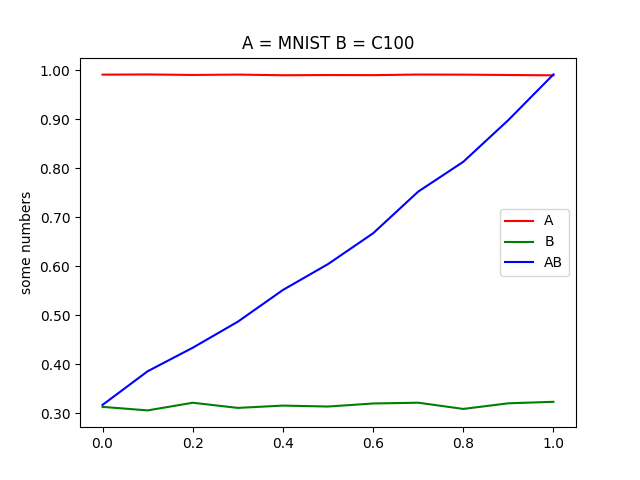
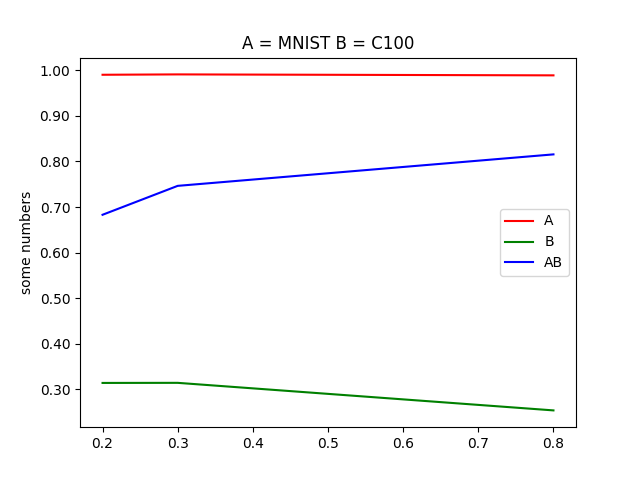
more data

diff --git a/dev/similarity/p-test/plot-p.py b/dev/similarity/p-test/plot-p.py
@@ -34,13 +34,13 @@ def load_data():
     res = []
     data = []
     names = []
-    with open('cart-results.csv', newline='') as csvfile:
+    with open('tmp_n-11.csv', newline='') as csvfile:
         spamreader = csv.reader(csvfile, delimiter=',', quotechar='|')
         for row in spamreader:
-            res.append([float(row[3]),float(row[4]),float(row[5]), float(row[2])])
+            res.append([float(row[3]),float(row[4]),float(row[5])])
 
             c = c + 1
-            if c >= 3:
+            if c >= 11:
                 c = 0
                 names.append(row[0:2])
                 data.append(res)
@@ -54,7 +54,7 @@ def plot_data(names, data):
         fig, ax = plt.subplots()
         ax.yaxis.set_major_formatter(FormatStrFormatter('%.2f'))
         # evenly sampled proportion
-        p = [0.2, 0.3, 0.8]
+        p = np.arrange(0.0, 1.1, 0.1)
         a = []
         b = []
         c = []
@@ -143,10 +143,17 @@ def calc_s_mean(data):
     for i in data:
         s_sum = 0.0
         for j in i:
-            try:
-                s_sum = s_sum + abs(abs(j[0] -j[2]) - abs(j[1] -j[2]))/abs(j[0] - j[1])
-            except:
+            a = max(j[0], j[1])
+            b = min(j[0], j[1])
+            ab = j[2] 
+
+            if ab > a or ab < b:
                 s_sum = s_sum + 1
+            else:
+                try:
+                    s_sum = s_sum + abs(abs(j[0] -j[2]) - abs(j[1] -j[2]))/abs(j[0] - j[1])
+                except:
+                    s_sum = s_sum + 1
         res.append(s_sum/len(i))
     
     return res
@@ -265,8 +272,8 @@ def calc_proj_auc(data):
 names, data = load_data()
 
 #print(names)
-print(data)
-plot_data(names,data)
+#print(data)
+#plot_data(names,data)
 
 #print(names)
 
@@ -274,7 +281,15 @@ plot_data(names,data)
 #print(a)
 
 b = calc_s_mean(data)
-print(b)
+
+
+c = 0
+for i in b:
+    print(round(i, 4))
+    c += 1
+    if c > 4:
+        c = 0
+        print('')
 
 #c = calc_auc(data)
 #print(c)
